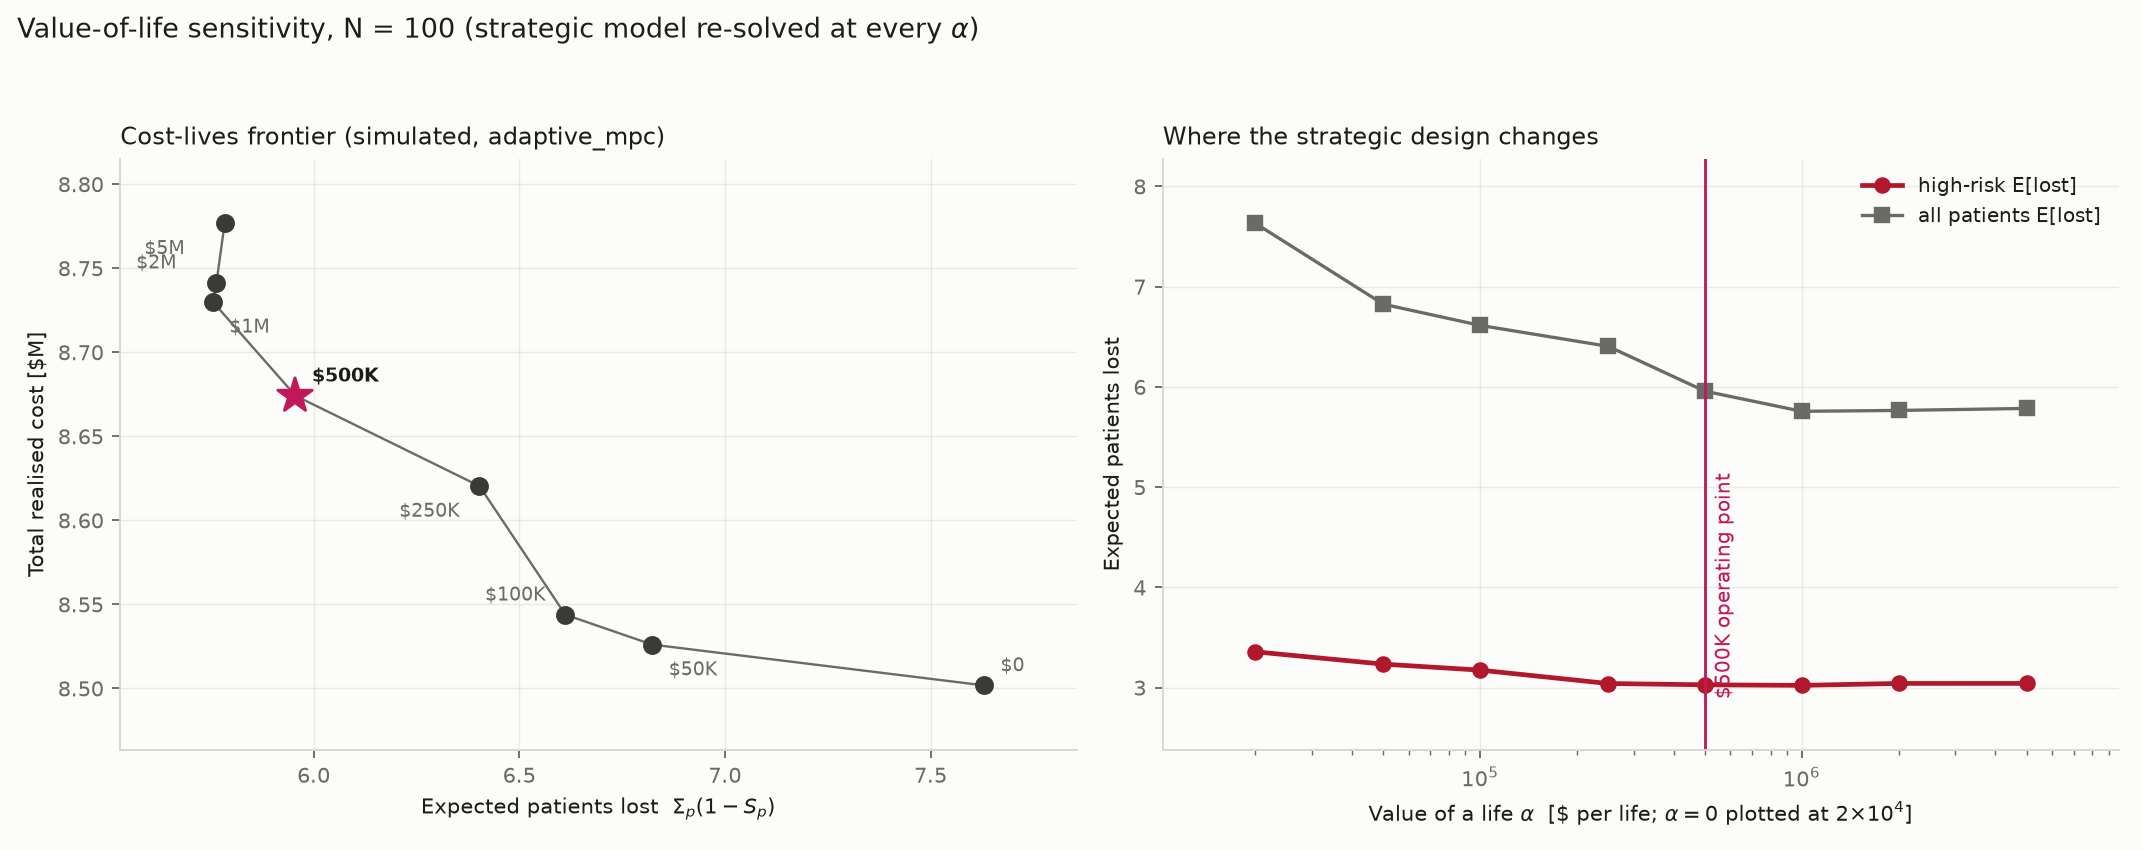
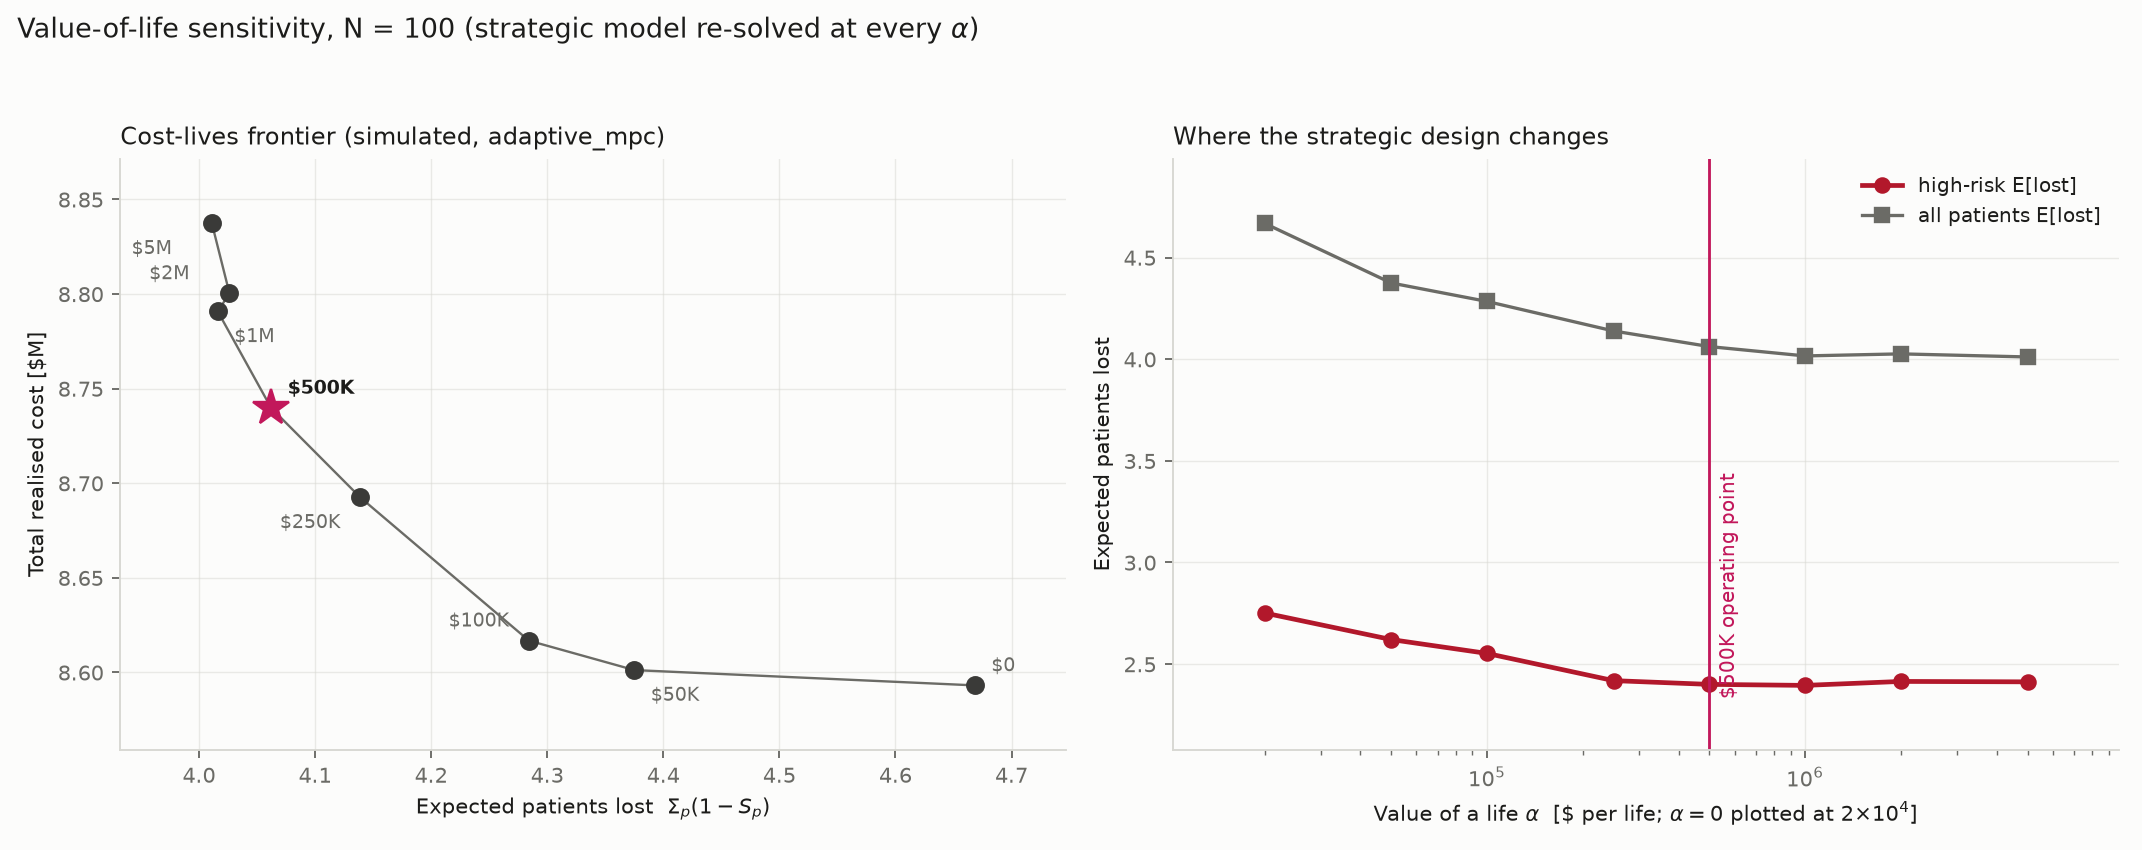
Re-run Exp A and Exp C on the backstop-off configuration
Puts all six experiments on one configuration. Exp A regenerates figA1
(50-patient Gantt, fifo vs adaptive_mpc) and figA2 (hold-time by tier at
N = 200 and N = 100); Exp C re-runs its simulated overlay at both scales,
re-using the cached strategic solves so the design threshold is untouched.
Exp 0 is calibration only and is config-independent.

Exp A hold by tier at N = 200 now matches Exp D exactly, as it must under
common random numbers: fifo 9.46 / 7.53 / 8.06 d flat across tiers,
adaptive_mpc 0.40 / 2.78 / 23.64 d.

Also refreshes the Exp B and E prose, which still quoted backstop-on
numbers, and corrects the note claiming A and C had not been re-run.

Claude-Session: https://claude.ai/code/session_012dbZ5LpLj7zrCW8EHfqzAz

diff --git a/results/mpc/README.md b/results/mpc/README.md
@@ -89,30 +89,40 @@ On **total** patients lost the survival-aware policies are *worse* than fifo
 asked: it buys high-risk survival with low-risk delay. Both metrics are
 reported everywhere; neither is hidden.
 
-## Exp A / B / C / E — *backstop-on baseline*
+## Exp A / B / C / E
 
-> A and C are current (they were not re-run and are unaffected). **B and E have
-> been re-run** — see the backstop-off section for the numbers that stand.
+**All six experiments now run on one configuration** (backstop off, K_remake = 2
+remakes). Exp 0 is calibration only and config-independent; A, B, C, D and E were
+all re-run. The B and E numbers that stand are in the backstop-off section above;
+A and C are current as written here.
 
-**A** — `fifo` holds the high-risk tier 9.2 d and low-risk 7.8 d; `adaptive_mpc`
-holds high-risk **0.4 d** and low-risk 19.8 d. Priority is an *output* of the
-objective, not an input rule.
+**A** — `fifo` holds the high-risk tier 9.46 d, medium 7.53 d and low-risk
+8.06 d — essentially flat, because arrival order ignores risk. `adaptive_mpc`
+holds high-risk **0.40 d** and medium 2.78 d, pushing the wait onto low-risk
+at 23.64 d. Priority is an *output* of the objective, not an input rule. The
+spread matches Exp D exactly (same config, same seeds, same CRN). N = 100:
+fifo 7.09 / 5.47 / 5.79, adaptive_mpc 0.89 / 2.21 / 16.60.
 
-**B** — high-risk loss is flat near 4.8–5.0 for the survival-aware policies
-across offered load 0.7 → 1.5, while fifo climbs 5.1 → 8.9 and
-`static_survival` 4.9 → 7.5. The lever matters most when the system is loaded.
-Load is varied by compressing/expanding the arrival window on the fixed
-network; at load 0.7 the window runs past day 130 and spillover reaches ~23 %.
+**B** — high-risk loss is flat near 4.26–4.43 for `adaptive_mpc` across offered
+load 0.7 → 1.5, while fifo climbs 4.52 → 8.81 and `static_survival` 4.38 → 7.38.
+The lever matters most when the system is loaded, and the gap over fifo widens
+16× (0.27 → 4.37). Full table in the backstop-off section above. Load is varied
+by compressing/expanding the arrival window on the fixed network; at load 0.7 the
+window runs past day 130 and spillover reaches ~23 %.
 
 **C** — the network holds at m1+m3 from α = 0 through $2M and **flips to m3+m6
-at $5M** (20 slots, load 0.80, +$4.7M, high-risk loss 4.81 → 4.11). The $500K
-operating point sits well inside the stable region: at $500K the design is not
-yet the binding lever, prioritisation is.
+at $5M** (20 slots, load 0.80, +$4.7M, high-risk loss 4.24 → 4.01). The design
+threshold is unchanged by the backstop-off re-run — it is a property of the
+strategic solve, and those were re-used from cache. The $500K operating point
+sits well inside the stable region: at $500K the design is not yet the binding
+lever, prioritisation is. At N = 100 the design never flips across the whole
+sweep (m1+m4 throughout).
 
 **E** — `adaptive_mpc` pulls away from `static_survival` as batches fail more
-often: high-risk loss 3.85 vs 3.85 at a 0 % failure rate, 4.89 vs 6.24 at 10 %,
-**9.58 vs 12.89 at 30 %**. Re-optimising on the observed state is what the
-dynamic layer buys, and its value grows with the failure rate.
+often: high-risk loss 3.85 vs 3.85 at a 0 % failure rate (identical — nothing to
+react to), 4.32 vs 5.44 at 10 %, **6.51 vs 11.59 at 30 %**. Re-optimising on the
+observed state is what the dynamic layer buys, and its value grows with the
+failure rate. Full table in the backstop-off section above.
 
 ## Backstop-off re-run
 
@@ -130,7 +140,8 @@ from cache — only simulation outcomes move.
   first two draws are unchanged and CRN stays nested against the old runs.
 
 Everything below is the new state; the old (backstop-on) numbers are kept beside
-it. Exp 0, A and C are unchanged and were not re-run.
+it. Exp A and C were re-run on this configuration afterwards (their numbers are
+in the section above); Exp 0 is calibration only and is config-independent.
 
 ### 1. Exp D — where the non-high excess went
 
